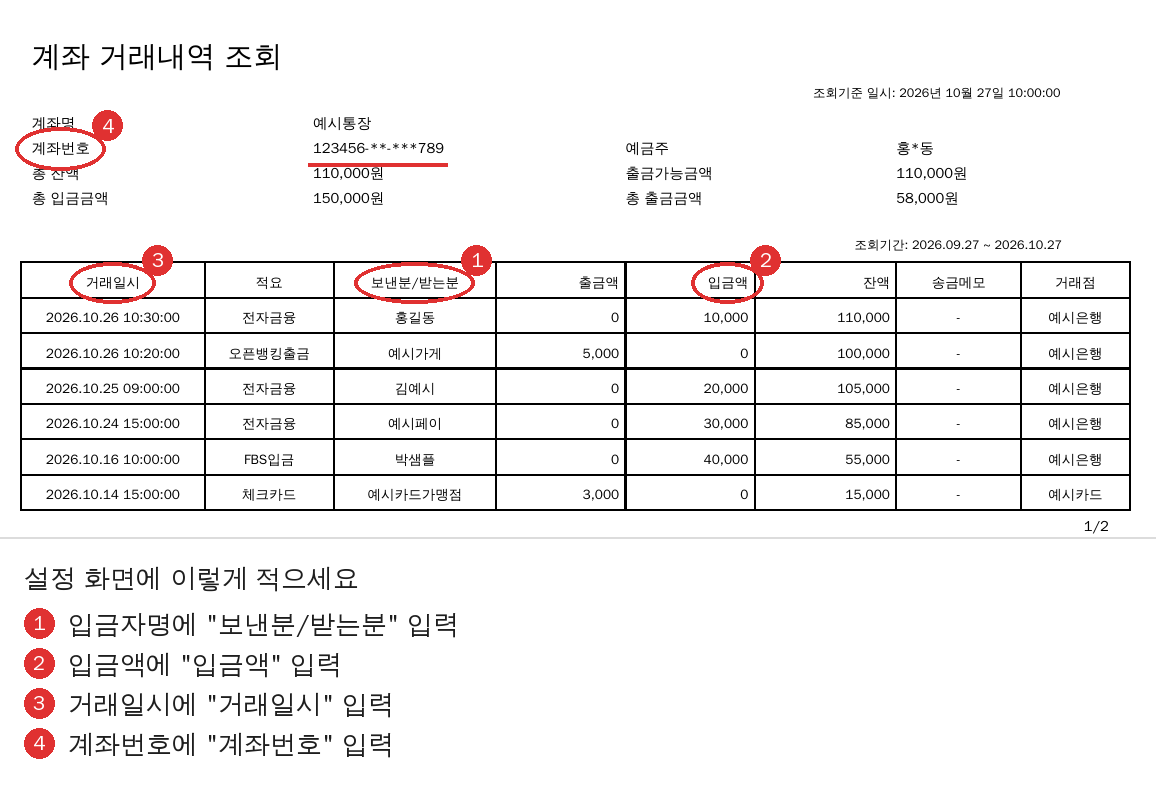
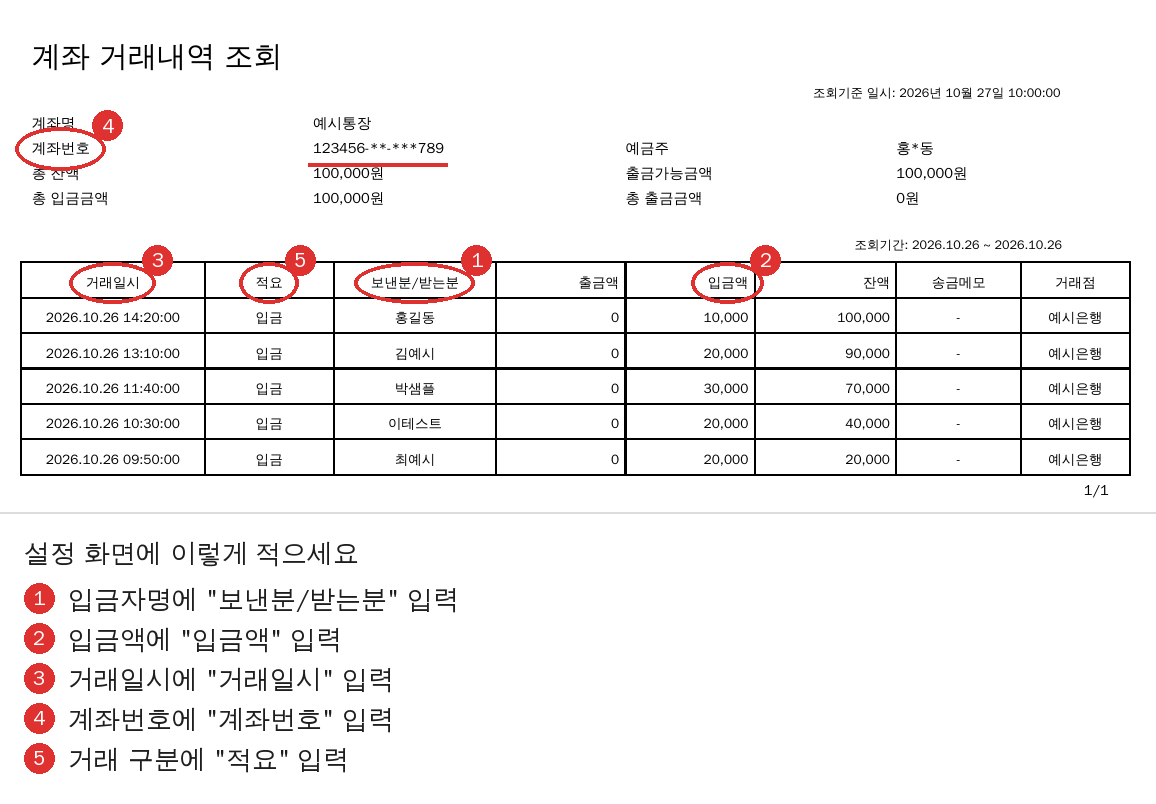
예시 그림을 입금만 있는 깔끔한 데이터로, 캐시백·카드·이자 등 거래 구분으로 빼기
- 설정 방법 창 예시 그림: 예시 전용 PDF(입금만 있는 지어낸 거래 5줄)로 다시 그림, ⑤ 거래 구분 표시
- 거래 구분 값에 캐시백·프로모션·카드·이자·출금·지급이 들어간 줄은 고객 입금이 아니라서 뺌
  (토스뱅크 기본 "구분", KB국민 "적요"). 파일에 거래 구분 칸이 없으면 멈추지 않고 빼지도 않음
- 미리보기에 뺀 줄 수 따로 표시, 설정 화면에 거래 구분 칸
- V1 수정: 로컬 DB 다시 지워야 함

Claude-Session: https://claude.ai/code/session_01XzfHxBJX1LzC5p1DRfYSzk

diff --git a/frontend/src/pages/seller/BankSettings.tsx b/frontend/src/pages/seller/BankSettings.tsx
@@ -91,15 +91,16 @@ export default function BankSettings() {
         <p className="muted small">{T.bankHeadersHelp}</p>
         <div className="table-wrap">
           <table className="stack">
-            <thead><tr><th>은행</th><th>입금자명</th><th>입금액</th><th>거래일시</th><th>계좌번호</th><th>상태</th><th></th></tr></thead>
+            <thead><tr><th>은행</th><th>입금자명</th><th>입금액</th><th>거래일시</th><th>계좌번호</th><th>거래 구분</th><th>상태</th><th></th></tr></thead>
             <tbody>
               {banks.map((b) => (
                 <tr key={b.bankName}>
                   <td className="stack-title">{b.bankName}</td>
                   <td data-label="입금자명">{b.values.nameColumn}</td>
-                  <td data-label="입금액">{b.values.amountColumn}{b.values.typeColumn ? ` (구분: ${b.values.typeColumn})` : ''}</td>
+                  <td data-label="입금액">{b.values.amountColumn}</td>
                   <td data-label="거래일시">{b.values.dateColumn}</td>
                   <td data-label="계좌번호">{b.values.accountLabel ?? '-'}</td>
+                  <td data-label="거래 구분">{b.values.typeColumn ?? '-'}</td>
                   <td data-label="상태" className="small">{SOURCE_LABEL[b.source]}</td>
                   <td className="stack-action">
                     <button type="button" className="btn small" onClick={() => { setNotice(null); setForm(toForm(b.bankName, b.values, false)) }}>수정</button>
@@ -125,7 +126,7 @@ export default function BankSettings() {
               <label className="field"><span>입금액 *</span><input type="text" value={form.amountColumn} onChange={set('amountColumn')} required /></label>
               <label className="field"><span>거래일시 *</span><input type="text" value={form.dateColumn} onChange={set('dateColumn')} required /></label>
               <label className="field"><span>계좌번호 (선택)</span><input type="text" value={form.accountLabel} onChange={set('accountLabel')} /></label>
-              <label className="field"><span>입금/출금 구분 (선택)</span><input type="text" value={form.typeColumn} onChange={set('typeColumn')} /></label>
+              <label className="field"><span>거래 구분 (선택)</span><input type="text" value={form.typeColumn} onChange={set('typeColumn')} /></label>
             </div>
             <p className="small muted">{T.accountLabelHint}</p>
             <p className="small muted">{T.typeColumnHint}</p>
@@ -133,6 +134,7 @@ export default function BankSettings() {
               <p className="small muted">
                 원래 값: 입금자명 {editing.original.nameColumn} · 입금액 {editing.original.amountColumn} · 거래일시 {editing.original.dateColumn}
                 {editing.original.accountLabel ? ` · 계좌번호 ${editing.original.accountLabel}` : ''}
+                {editing.original.typeColumn ? ` · 거래 구분 ${editing.original.typeColumn}` : ''}
               </p>
             )}
             <ErrorBox message={error} />
@@ -182,11 +184,11 @@ function HowToModal({ onClose }: { onClose: () => void }) {
         <p className="small"><b>{T.visibleInfoTip}</b></p>
         <h4>KB국민은행 PDF 예시</h4>
         <a href="/help/kb-header-example.png" target="_blank" rel="noreferrer">
-          <img className="howto-image" src="/help/kb-header-example.png" alt="KB국민은행 거래내역 PDF에서 보낸분/받는분, 입금액, 거래일시, 계좌번호 표시" />
+          <img className="howto-image" src="/help/kb-header-example.png" alt="KB국민은행 거래내역 PDF에서 보낸분/받는분, 입금액, 거래일시, 계좌번호, 적요 표시" />
         </a>
         <h4>토스뱅크 PDF 예시</h4>
         <a href="/help/toss-header-example.png" target="_blank" rel="noreferrer">
-          <img className="howto-image" src="/help/toss-header-example.png" alt="토스뱅크 거래내역 PDF에서 거래내용, 거래금액, 거래일자, 계좌번호 표시" />
+          <img className="howto-image" src="/help/toss-header-example.png" alt="토스뱅크 거래내역 PDF에서 거래내용, 거래금액, 거래일자, 계좌번호, 구분 표시" />
         </a>
         <p className="small muted">{T.exampleNote}</p>
         <div className="row modal-foot" style={{ justifyContent: 'flex-end' }}>

diff --git a/frontend/src/texts/deposit.ts b/frontend/src/texts/deposit.ts
@@ -13,8 +13,9 @@ export const depositText = {
   /** headerRowNo 가 null 이면(PDF) 헤더 행 번호를 말하지 않는다 */
   columnsFound: (bankName: string, headerRowNo: number | null) =>
     `${bankName} 헤더(컬럼)명으로 읽었습니다.${headerRowNo ? ` 헤더는 ${headerRowNo}행입니다.` : ''}`,
-  previewCounts: (deposits: number, skipped: number, duplicates: number) =>
-    `입금 ${deposits}건 · 입금이 아니라서 건너뛴 줄 ${skipped}개${duplicates ? ` · 이미 올린 입금 ${duplicates}건` : ''}`,
+  /** excluded: 거래 구분으로 뺀 줄 (skipped 에 들어 있음) */
+  previewCounts: (deposits: number, skipped: number, excluded: number, duplicates: number) =>
+    `입금 ${deposits}건${excluded ? ` · 캐시백·카드·이자 등이라 뺀 줄 ${excluded}개` : ''}${skipped - excluded ? ` · 입금이 아니라서 건너뛴 줄 ${skipped - excluded}개` : ''}${duplicates ? ` · 이미 올린 입금 ${duplicates}건` : ''}`,
   accountDifferentConfirm: (notice: string) => `${notice}\n\n그래도 올릴까요?`,
   confirmDeleteUpload: '이 업로드의 입금 줄을 지울까요?',
 
@@ -59,7 +60,7 @@ export const depositText = {
   bankSaved: (name: string) => `${name} 헤더(컬럼)명을 저장했습니다.`,
   confirmRevert: (name: string) => `${name} 헤더(컬럼)명을 원래 값으로 되돌릴까요?`,
   confirmRemoveBank: (name: string) => `${name}${josa(name, '을/를')} 목록에서 지울까요?`,
-  typeColumnHint: '입금액 헤더(컬럼)에 출금도 + 금액으로 나오는 은행만 적으세요. 그 헤더(컬럼)에 "출금", "지급", "이자"가 적힌 줄은 뺍니다.',
+  typeColumnHint: '거래 구분 헤더(컬럼) 값에 "캐시백", "프로모션", "카드", "이자", "출금", "지급"이 들어간 줄은 고객 입금이 아니라서 뺍니다. 파일에 이 헤더(컬럼)가 없으면 빼지 않고 읽습니다.',
   accountLabelHint: '거래내역서 위쪽에서 계좌번호 앞에 적힌 글자입니다. 적으면 공구 입금 계좌와 같은 계좌의 거래내역인지 확인합니다.',
   // 설정 방법 창
   howToSteps: [
@@ -68,6 +69,7 @@ export const depositText = {
     '입금자명은 보낸 사람 이름, 입금액은 받은 금액, 거래일시는 날짜와 시각이 나오는 헤더(컬럼)입니다.',
     '입금과 출금이 한 헤더(컬럼)에 +와 -로 나오면 그 헤더(컬럼)를 입금액에 적습니다. + 금액만 입금으로 읽습니다.',
     '계좌번호에는 표 위쪽에서 계좌번호 앞에 적힌 글자를 적습니다.',
+    '거래 구분에는 입금이나 카드결제처럼 거래 종류가 나오는 헤더(컬럼)를 적습니다. 캐시백·카드·이자 같은 줄은 고객 입금이 아니라서 뺍니다.',
   ],
   exampleNote: '예시 그림의 이름·금액·계좌번호는 지어낸 값입니다. 그림을 누르면 크게 볼 수 있습니다.',
   aliasHelp: '입금을 확정하면 "입금자명 → 고객"이 저장되고 다음 공구부터 같은 입금자명이면 자동으로 그 고객과 매칭합니다. 잘못 저장된 것은 지우세요.',

diff --git a/frontend/src/pages/seller/DepositTab.tsx b/frontend/src/pages/seller/DepositTab.tsx
@@ -176,7 +176,7 @@ export default function DepositTab({ groupBuy, reload }: Props) {
               <span className="chip">입금액: {bank.values.amountColumn}</span>
               <span className="chip">거래일시: {bank.values.dateColumn}</span>
               {bank.values.accountLabel && <span className="chip">계좌번호: {bank.values.accountLabel}</span>}
-              {bank.values.typeColumn && <span className="chip">구분: {bank.values.typeColumn}</span>}
+              {bank.values.typeColumn && <span className="chip">거래 구분: {bank.values.typeColumn}</span>}
               <Link to="/seller/bank" className="small" style={{ marginLeft: 8 }}>은행 헤더(컬럼) 설정</Link>
             </div>
           )}
@@ -193,7 +193,7 @@ export default function DepositTab({ groupBuy, reload }: Props) {
             )}
             <div className="success-box">
               {T.columnsFound(checked.bankName, file?.name.toLowerCase().endsWith('.pdf') ? null : parsed.headerRowNo)}
-              <div className="small mt">{T.previewCounts(parsed.deposits.length, parsed.skippedRows, checked.duplicateCount)}</div>
+              <div className="small mt">{T.previewCounts(parsed.deposits.length, parsed.skippedRows, parsed.excludedRows, checked.duplicateCount)}</div>
             </div>
             <div className="table-wrap mt">
               <table>

diff --git a/frontend/src/types.ts b/frontend/src/types.ts
@@ -213,6 +213,8 @@ export interface ParsedStatement {
   preview: string[][]
   deposits: DepositLine[]
   skippedRows: number
+  /** 그중 거래 구분 값(캐시백·카드·이자 등)으로 뺀 줄 수 (2026-10-27) */
+  excludedRows: number
   message: string | null
   /** 거래내역서 위쪽에서 찾은 계좌번호 (못 찾았으면 null, 2026-10-27) */
   accountNumber: string | null

diff --git a/backend/src/test/java/com/depositcock/deposit/BankStatementReaderTest.java b/backend/src/test/java/com/depositcock/deposit/BankStatementReaderTest.java
@@ -126,9 +126,10 @@ class BankStatementReaderTest {
         assertThat(parsed.mapping().nameColumn()).isEqualTo("거래내용");
         assertThat(parsed.mapping().amountColumn()).isEqualTo("거래금액");
         assertThat(parsed.mapping().typeColumn()).isEqualTo("구분");
-        // 머리줄 없는 2쪽도 같은 칸 위치로 읽음. 캐시백(+500)도 입금으로 읽는다 (거래 이름으로 빼지 않음, 2026-10-27 사용자 결정)
-        assertThat(parsed.deposits()).extracting(DepositLine::name).containsExactly("홍길동", "카드 캐시백", "김샘플");
-        assertThat(parsed.deposits()).extracting(DepositLine::amount).containsExactly(30000, 500, 20000);
+        // 머리줄 없는 2쪽도 같은 칸 위치로 읽음. 구분 "캐시백"(+500)은 고객 입금이 아니라서 뺀다 (2026-10-27 사용자 "일단 제외 처리는 해 놔")
+        assertThat(parsed.deposits()).extracting(DepositLine::name).containsExactly("홍길동", "김샘플");
+        assertThat(parsed.deposits()).extracting(DepositLine::amount).containsExactly(30000, 20000);
+        assertThat(parsed.excludedRows()).isEqualTo(1);
         assertThat(parsed.deposits().get(0).dateText()).isEqualTo("2026-10-22 22:40:00");
     }
 
@@ -143,10 +144,11 @@ class BankStatementReaderTest {
         assertThat(kbParsed.deposits()).hasSize(5);
         assertThat(kbParsed.accountNumber()).isEqualTo("123456-**-***789");
 
-        ColumnMapping toss = new ColumnMapping("거래일자", "거래내용", "거래금액", null);
+        ColumnMapping toss = new ColumnMapping("거래일자", "거래내용", "거래금액", "구분");
         ParsedStatement tossParsed = reader.read("toss.pdf", resource("statements/toss-statement.pdf"), toss, "계좌번호");
         assertThat(tossParsed.ok()).isTrue();
-        assertThat(tossParsed.deposits()).extracting(DepositLine::name).containsExactly("홍길동", "카드 캐시백", "김샘플");
+        assertThat(tossParsed.deposits()).extracting(DepositLine::name).containsExactly("홍길동", "김샘플");
+        assertThat(tossParsed.excludedRows()).isEqualTo(1);
         assertThat(tossParsed.accountNumber()).isEqualTo("1001-0000-0000");
 
         // 칸 이름 뒤에 붙은 계좌번호 ("계좌번호 ****-****-1234"), 계좌번호 칸이 머리줄에도 있지만 머리줄 위쪽만 본다
@@ -155,6 +157,44 @@ class BankStatementReaderTest {
         assertThat(xlsxParsed.accountNumber()).isEqualTo("****-****-1234");
         assertThat(reader.read("toss.xlsx", tossBankXlsx(), xlsx, "계좌 번호").accountNumber()).isEqualTo("****-****-1234");
         assertThat(reader.read("toss.xlsx", tossBankXlsx(), xlsx, "출금계좌").accountNumber()).isNull();
+    }
+
+    /**
+     * 거래 구분 값으로 고객 입금이 아닌 줄 빼기 (2026-10-27 사용자 "일단 제외 처리는 해 놔").
+     * 토스 PDF 구분·토스 엑셀 거래 유형·KB 적요에 나오는 값으로 확인. 고객 송금(입금·모임원송금·전자금융)은 남는다.
+     * 거래 구분 칸이 파일에 없으면 빼지 않고 읽는다
+     */
+    @Test
+    void nonCustomerDepositsAreExcludedByType() {
+        String csv = "거래일자,구분,거래금액,거래내용\n"
+                + "2026-10-26 10:00:00,입금,10000,홍길동\n"
+                + "2026-10-26 10:01:00,모임원송금,20000,김예시\n"
+                + "2026-10-26 10:02:00,캐시백,500,카드 캐시백\n"
+                + "2026-10-26 10:03:00,프로모션입금,500,카드 캐시백\n"
+                + "2026-10-26 10:04:00,체크카드결제,3000,예시가게\n"
+                + "2026-10-26 10:05:00,이자입금,12,예시이자\n"
+                + "2026-10-26 10:06:00,출금,-5000,박샘플\n";
+        ParsedStatement parsed = reader.read("x.csv", csv.getBytes(StandardCharsets.UTF_8),
+                new ColumnMapping("거래일자", "거래내용", "거래금액", "구분"));
+        assertThat(parsed.deposits()).extracting(DepositLine::name).containsExactly("홍길동", "김예시");
+        assertThat(parsed.excludedRows()).isEqualTo(4);
+        assertThat(parsed.skippedRows()).isEqualTo(5);
+
+        String kb = "거래일시,적요,보낸분/받는분,출금액,입금액\n"
+                + "2026.10.26 10:00:00,전자금융,홍길동,0,10000\n"
+                + "2026.10.26 10:01:00,FBS입금,김예시,0,20000\n"
+                + "2026.10.26 10:02:00,체크카드,예시가게,0,3000\n";
+        ParsedStatement kbParsed = reader.read("kb.csv", kb.getBytes(StandardCharsets.UTF_8),
+                new ColumnMapping("거래일시", "보낸분/받는분", "입금액", "적요"));
+        assertThat(kbParsed.deposits()).extracting(DepositLine::name).containsExactly("홍길동", "김예시");
+
+        // 거래 구분 칸이 없는 파일: 멈추지 않고 빼지도 않는다
+        String noType = "거래일자,거래금액,거래내용\n2026-10-26 10:00:00,500,카드 캐시백\n";
+        ParsedStatement plain = reader.read("x.csv", noType.getBytes(StandardCharsets.UTF_8),
+                new ColumnMapping("거래일자", "거래내용", "거래금액", "구분"));
+        assertThat(plain.ok()).isTrue();
+        assertThat(plain.deposits()).hasSize(1);
+        assertThat(plain.missingColumns()).isEmpty();
     }
 
     /** 은행 헤더(컬럼)명이 파일에 없으면 못 찾은 이름을 알려 준다. 날짜 칸도 있어야 한다 (2026-10-27) */

diff --git a/backend/src/main/java/com/depositcock/deposit/BankStatementReader.java b/backend/src/main/java/com/depositcock/deposit/BankStatementReader.java
@@ -290,8 +290,9 @@ public class BankStatementReader {
                 dateIdx = isBlank(requested.dateColumn()) ? -1 : header.indexOf(Texts.squash(requested.dateColumn()));
                 typeIdx = isBlank(requested.typeColumn()) ? -1 : header.indexOf(Texts.squash(requested.typeColumn()));
                 used = requested;
-                // 지정한 거래일시·거래 구분 칸도 머리줄에 있어야 한다 (은행별 헤더 설정이 파일과 맞는지 확인, 2026-10-27)
-                if ((!isBlank(requested.dateColumn()) && dateIdx < 0) || (!isBlank(requested.typeColumn()) && typeIdx < 0)) {
+                // 지정한 거래일시 칸도 머리줄에 있어야 한다 (은행별 헤더 설정이 파일과 맞는지 확인, 2026-10-27).
+                // 거래 구분 칸은 고객 입금이 아닌 줄을 빼는 데만 써서, 파일에 없으면 빼지 않고 읽는다
+                if (!isBlank(requested.dateColumn()) && dateIdx < 0) {
                     continue;
                 }
             } else {
@@ -307,6 +308,7 @@ public class BankStatementReader {
             }
             List<DepositLine> deposits = new ArrayList<>();
             int skipped = 0;
+            int excluded = 0;
             for (int i = r + 1; i < rows.size(); i++) {
                 List<String> row = rows.get(i);
                 if (row.stream().allMatch(String::isBlank)) {
@@ -317,8 +319,13 @@ public class BankStatementReader {
                 String name = Texts.cut(get(row, nameIdx).trim(), DepositRow.MAX_DEPOSITOR_NAME);
                 Integer amount = parseAmount(get(row, amountIdx));
                 String type = typeIdx >= 0 ? get(row, typeIdx) : "";
-                if (name.isEmpty() || amount == null || amount <= 0 || excludedType(type)) {
+                if (name.isEmpty() || amount == null || amount <= 0) {
                     skipped++;
+                    continue;
+                }
+                if (excludedType(type)) {
+                    skipped++;
+                    excluded++;
                     continue;
                 }
                 String dateText = dateIdx >= 0 ? Texts.cut(get(row, dateIdx).trim(), DepositRow.MAX_DATETIME_TEXT) : null;
@@ -333,6 +340,7 @@ public class BankStatementReader {
                     .preview(preview)
                     .deposits(deposits)
                     .skippedRows(skipped)
+                    .excludedRows(excluded)
                     .missingColumns(List.of())
                     .build();
         }
@@ -367,13 +375,12 @@ public class BankStatementReader {
         return cell.substring(i);
     }
 
-    /** 지정한 헤더(컬럼)명 중 파일 위쪽 어디에도 없는 것. 다 있는데 한 줄에 모이지 않았으면 전부 */
+    /** 지정한 헤더(컬럼)명 중 파일 위쪽 어디에도 없는 것. 다 있는데 한 줄에 모이지 않았으면 전부 (거래 구분은 없어도 되므로 빼고 본다) */
     private static List<String> missingColumns(List<List<String>> rows, ColumnMapping requested) {
         Set<String> cells = new LinkedHashSet<>();
         rows.stream().limit(HEADER_SEARCH_ROWS).forEach(row -> row.forEach(v -> cells.add(Texts.squash(v))));
         List<String> names = new ArrayList<>();
-        for (String name : new String[] {requested.nameColumn(), requested.amountColumn(), requested.dateColumn(),
-                requested.typeColumn()}) {
+        for (String name : new String[] {requested.nameColumn(), requested.amountColumn(), requested.dateColumn()}) {
             if (!isBlank(name)) {
                 names.add(name);
             }
@@ -382,12 +389,21 @@ public class BankStatementReader {
         return missing.isEmpty() ? names : missing;
     }
 
+    /** 거래 구분 값에 이 글자가 들어 있으면 고객 입금이 아니라서 뺀다 */
+    static final List<String> EXCLUDED_TYPES = List.of("캐시백", "프로모션", "카드", "이자", "출금", "지급");
+
     /**
-     * 거래 유형 값으로 제외할 줄: 이자(정리본 6-1장), 그리고 출금·지급.
-     * 금액이 항상 양수이고 '구분' 열로 입금/출금을 나누는 은행 형식에서 출금이 입금으로 섞이지 않게 한다.
+     * 거래 구분 값으로 뺄 줄 (2026-10-27 사용자 "일단 제외 처리는 해 놔").
+     * <pre>
+     * - 캐시백·프로모션: 토스 PDF 구분 "캐시백", 토스 엑셀 거래 유형 "프로모션입금" (카드 캐시백)
+     * - 카드: 플러스 금액인 "체크카드결제"(결제 취소로 보임), KB 적요 "체크카드"
+     * - 이자 (정리본 6-1장), 출금·지급 (금액이 늘 양수이고 구분 칸으로 입금·출금을 나누는 은행)
+     * </pre>
+     * 은행 설정에 거래 구분 칸이 없거나 파일에 그 칸이 없으면 빼지 않는다
      */
     static boolean excludedType(String type) {
-        return type.contains("이자") || type.contains("출금") || type.contains("지급");
+        String t = Texts.squash(type);
+        return EXCLUDED_TYPES.stream().anyMatch(t::contains);
     }
 
     private static List<String> columnOptions(List<List<String>> rows) {

diff --git a/backend/src/main/java/com/depositcock/deposit/ParsedStatement.java b/backend/src/main/java/com/depositcock/deposit/ParsedStatement.java
@@ -14,7 +14,8 @@ import lombok.Builder;
  * @param columnOptions  판매자가 열을 직접 고를 때 보여줄 후보 (위쪽 30줄의 글자 칸 값)
  * @param preview        위쪽 몇 줄의 원본 (열을 못 찾았을 때 화면에 보여준다)
  * @param deposits       입금 줄
- * @param skippedRows    건너뛴 줄 수 (출금, 0원 이하, 이름 없음, 이자)
+ * @param skippedRows    건너뛴 줄 수 (0원 이하·출금 금액, 이름 없음, 거래 구분으로 뺀 줄 포함)
+ * @param excludedRows   그중 거래 구분 값(캐시백·카드·이자 등)으로 뺀 줄 수 (2026-10-27)
  * @param message        안내 문구 (열을 못 찾았을 때 등)
  */
 @Builder(toBuilder = true)
@@ -27,6 +28,7 @@ public record ParsedStatement(
         List<List<String>> preview,
         List<DepositLine> deposits,
         int skippedRows,
+        int excludedRows,
         String message,
         /** 거래내역서 위쪽에서 찾은 계좌번호 (가려진 글자 포함, 못 찾으면 null, 2026-10-27) */
         String accountNumber,

diff --git a/docs/design.md b/docs/design.md
@@ -326,8 +326,9 @@
   - 전에 있던 "저장한 열 설정"(bank_column_preset)·자동 인식·헤더(컬럼)명 직접 지정은 화면에서 뺌. 올리기는 고른 은행의 헤더(컬럼)명으로만 읽음 (자동 인식 코드는 테스트에서만 씀)
   - 올리기 화면: "거래내역 은행" 고르기. 처음 값 = 공구 입금 계좌의 은행 이름(다른 이름들로도 맞춤, 예 "국민은행" → KB국민은행). 목록에 없으면 기본 은행(토스뱅크)
   - 헤더(컬럼)명이 파일에 없으면 멈추고 알림창 [결정: 사용자]: "거래내역 헤더 설정이 잘못됐습니다. [은행 헤더(컬럼) 설정] 메뉴에서 '은행'의 헤더(컬럼)명을 파일에 맞게 고친 뒤 다시 올려 주세요. 파일에서 못 찾은 헤더(컬럼)명: …" (거래일시도 있어야 함)
-  - 설정 화면: 쓰는 칸만 (입금자명·입금액·거래일시 필수, 계좌번호 선택). 입금/출금 구분 칸은 선택으로 남김 [제안: 입금액 칸에 출금도 + 로 나오는 은행이면 이 칸이 없으면 출금이 입금으로 읽힘. 조사 안 된 은행 대비]. [거래내역 입금 헤더(컬럼)명 설정 방법] 창(짧은 설명 + KB국민·토스뱅크 예시 그림), "사용하시는 계좌의 은행이 없나요? [사용 은행 추가]"
-  - 예시 그림 `frontend/public/help/*.png`: 테스트용 가짜 PDF 를 그림으로 바꾸고 빨간 동그라미·번호·설명을 그림. 이름·금액·계좌번호·잔액·시각 모두 지어낸 값
+  - 설정 화면: 쓰는 칸만 (입금자명·입금액·거래일시 필수, 계좌번호·거래 구분 선택). [거래내역 입금 헤더(컬럼)명 설정 방법] 창(짧은 설명 + KB국민·토스뱅크 예시 그림), "사용하시는 계좌의 은행이 없나요? [사용 은행 추가]"
+  - 거래 구분 칸 (토스뱅크 "구분", KB국민 "적요"): 값에 캐시백·프로모션·카드·이자·출금·지급이 들어간 줄은 고객 입금이 아니라서 뺌 [결정: 사용자 "일단 제외 처리는 해 놔", 아래 B]. 파일에 이 칸이 없으면 멈추지 않고 빼지도 않음 [제안]. 미리보기에 "캐시백·카드·이자 등이라 뺀 줄 N개"
+  - 예시 그림 `frontend/public/help/*.png`: 예시 전용 PDF(입금만 있는 지어낸 거래 5줄)를 그림으로 바꾸고 빨간 동그라미·번호·설명을 그림 [사용자: "카드 쓰는 것처럼 실제 거래 같은 것 말고 깔끔한 데이터만"]. 테스트 PDF 와는 따로 (테스트 PDF 는 출금·캐시백을 건너뛰는지 확인하려고 그 줄이 있어야 함)
   - 안내 "거래내역서에 계좌번호와 이름이 가려지지 않고 보이면 대조가 잘 됩니다." (올리기 칸·설정 방법 창) [결정: 사용자]
 - 거래내역서 계좌번호 확인 [결정: 사용자 "조금만 같아도 일단 통과"]
   - 은행 설정의 "계좌번호" 칸 이름으로 표 위쪽에서 계좌번호를 찾아 공구 입금 계좌와 비교. 가린 글자(* x ● 등)는 빼고 보이는 숫자만: 안 가렸으면 전부 같아야 함 / 가렸고 길이가 같으면 보이는 자리마다 / 길이가 다르면 앞뒤로 보이는 숫자(각 최대 3자리). 비교할 숫자가 2자리보다 적으면 판단 안 함
@@ -346,9 +347,8 @@
   - 안 보는 경우: 댓글 주문(주문 시각이 댓글 시각이 아님), 거래내역에 시:분이 없는 입금(날짜만)
   - 대조 결과에 "주문 12분 뒤 입금"·"금액 변경 2시간 뒤 입금" 표시. 같은 고객 주문이 여러 건이면 입금 시각에 가까운 주문부터 맺음
   - [판단] 공구를 열고 한참 뒤에 몰아서 입금받는 판매자는 "확인 필요"가 많이 뜰 수 있음. 써 보고 시간을 바꿀지 정함
-- 하지 않기로 한 것 [결정: 사용자]
-  - B: 캐시백·카드 결제 취소 같은 줄을 구분·적요 이름으로 자동으로 빼기 → 안 함 ("관련 없는 입금"으로 뜨면 [이미 처리 완료된 입금]으로 옮김)
-  - C: 출금 줄 활용 (환불 확인 등) → 앞으로도 안 함
+- B: 캐시백·카드 결제 취소 같은 줄을 구분·적요 값으로 자동으로 빼기 → 처음엔 안 하기로 했다가 같은 날 "일단 제외 처리는 해 놔. 해 놓는다고 나쁠 건 없으니" [결정: 사용자]. 위 거래 구분 칸. 빼는 글자는 사용자가 보낸 토스 PDF·엑셀, KB PDF 캡처에 나온 값 기준 (다른 은행 값은 모름)
+- C: 출금 줄 활용 (환불 확인 등) → 앞으로도 안 함 [결정: 사용자]
 - 테스트 PDF 다시 만듦 [사실]: 전에 만든 `backend/src/test/resources/statements/*.pdf` 에 사용자 캡처에서 옮겨 온 것으로 보이는 값(이름·가린 계좌번호·잔액·가맹점·시각)이 들어 있었음 → 모두 지어낸 값으로 바꿈. 전 파일은 PR #3 커밋 기록(e255971)에 남아 있음 (지우려면 브랜치 기록을 다시 써야 함, 사용자 결정 필요)
 - DB (첫 배포 전이라 V1 수정): bank_column_preset 삭제 → bank_header·seller_bank_header, deposit_upload.group_buy_id → seller_id·account_key, customer_order.amount_set_at. 로컬 DB 다시 지워야 함
 

diff --git a/docs/점검기록-2026-10-27.md b/docs/점검기록-2026-10-27.md
@@ -36,7 +36,16 @@
   - KB국민은행으로 바꿔 미리보기 → 입금 5건, 계좌 다름 경고 → [올리기] 때 확인창 → 저장
   - 데모 공구 2개가 같은 계좌라 대조 화면에 공유 안내가 뜸
 
-## 4. 확인 못 한 것·남은 것
+## 4. 같은 날 추가 (사용자 요청)
+
+- 예시 그림을 입금만 있는 깔끔한 지어낸 거래로 다시 만듦 (카드결제·출금·캐시백 줄 없앰). ⑤ 거래 구분 표시 추가
+- 거래 구분 값으로 고객 입금이 아닌 줄 빼기: 캐시백·프로모션·카드·이자·출금·지급. 토스뱅크 기본값 거래 구분 "구분", KB국민 "적요"
+  - 빼는 글자는 사용자가 보낸 토스 PDF(구분 "캐시백"), 토스 엑셀(거래 유형 "프로모션입금", 플러스 "체크카드결제"), KB PDF(적요 "체크카드") 기준
+  - 고객 송금으로 보이는 값(입금·모임원송금·전자금융·FBS입금)은 남는 것을 테스트로 확인 (`BankStatementReaderTest.nonCustomerDepositsAreExcludedByType`)
+  - 거래 구분 칸이 파일에 없으면 멈추지 않고 빼지도 않음. 헤더 불일치 알림의 "못 찾은 헤더(컬럼)명"에서도 뺌
+- 백엔드 테스트 256개 통과, 프론트 타입 검사 통과
+
+## 5. 확인 못 한 것·남은 것
 
 - 다른 은행 헤더(컬럼)명: 조사 안 함 (사용자가 조사해서 `bank_header` 에 넣기로)
 - 은행이 계좌번호를 몇 자리 가리는지 공식 기준 못 찾음. 지금은 보이는 숫자만 비교
